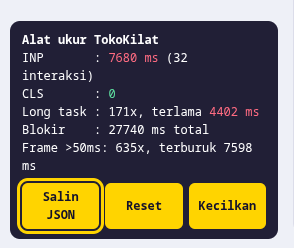
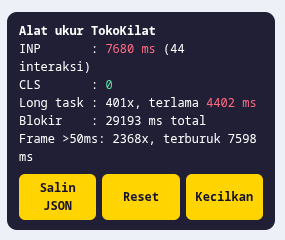
trace S1 before

diff --git a/laporan/trace/BACA.md b/laporan/trace/BACA.md
@@ -1,1 +1,64 @@
 Simpan berkas trace di sini. Pola `trace-*.json` diabaikan git (lihat PROTOKOL-PENGUKURAN.md bagian C).
+
+S1-sebelum:
+{
+  "waktu": "2026-09-30T03:55:30.717Z",
+  "jumlahLongTask": 54,
+  "longTaskTerlama": 4305,
+  "totalBlokir": 14792,
+  "jumlahInteraksi": 8,
+  "inp": 7680,
+  "inpRinci": {
+    "durasi": 7680,
+    "jenis": "keydown",
+    "target": "#kolom-cari",
+    "tundaInput": 48,
+    "proses": 0,
+    "presentasi": 7632
+  },
+  "limaInteraksiTerlambat": [
+    {
+      "durasi": 7680,
+      "jenis": "keydown",
+      "target": "#kolom-cari",
+      "tundaInput": 48,
+      "proses": 0,
+      "presentasi": 7632
+    },
+    {
+      "durasi": 7456,
+      "jenis": "keydown",
+      "target": "#kolom-cari",
+      "tundaInput": 4193,
+      "proses": 0,
+      "presentasi": 3263
+    },
+    {
+      "durasi": 7096,
+      "jenis": "keydown",
+      "target": "#kolom-cari",
+      "tundaInput": 5765,
+      "proses": 0,
+      "presentasi": 1331
+    },
+    {
+      "durasi": 6872,
+      "jenis": "keydown",
+      "target": "#kolom-cari",
+      "tundaInput": 5918,
+      "proses": 0,
+      "presentasi": 954
+    },
+    {
+      "durasi": 6696,
+      "jenis": "keydown",
+      "target": "#kolom-cari",
+      "tundaInput": 6030,
+      "proses": 0,
+      "presentasi": 666
+    }
+  ],
+  "cls": 0,
+  "frameLambat": 523,
+  "frameTerburuk": 7598
+}
